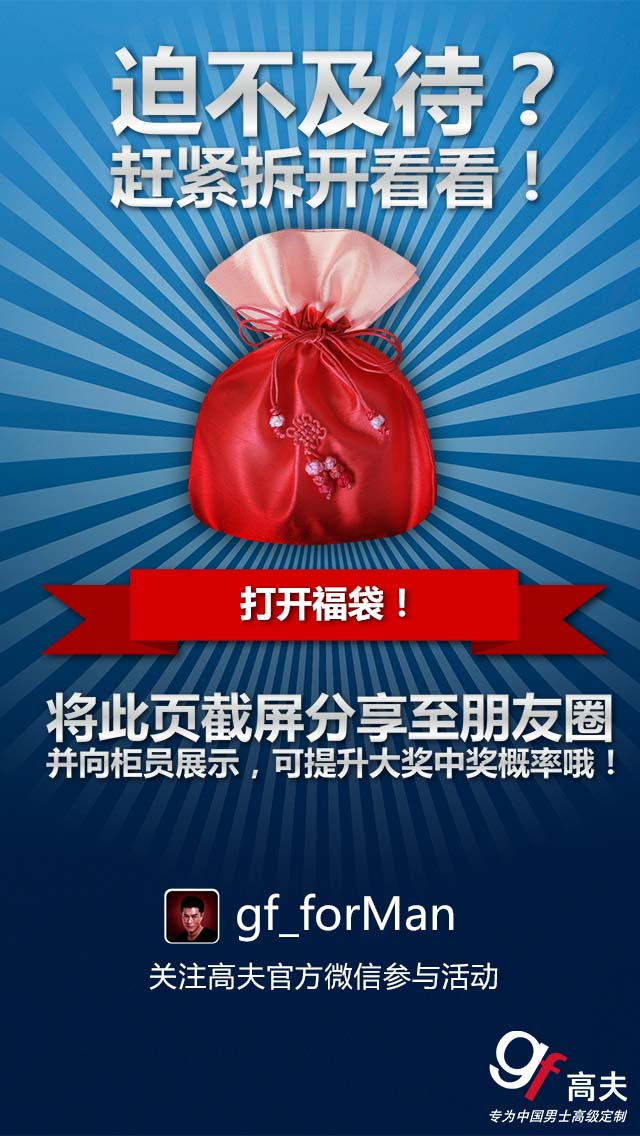
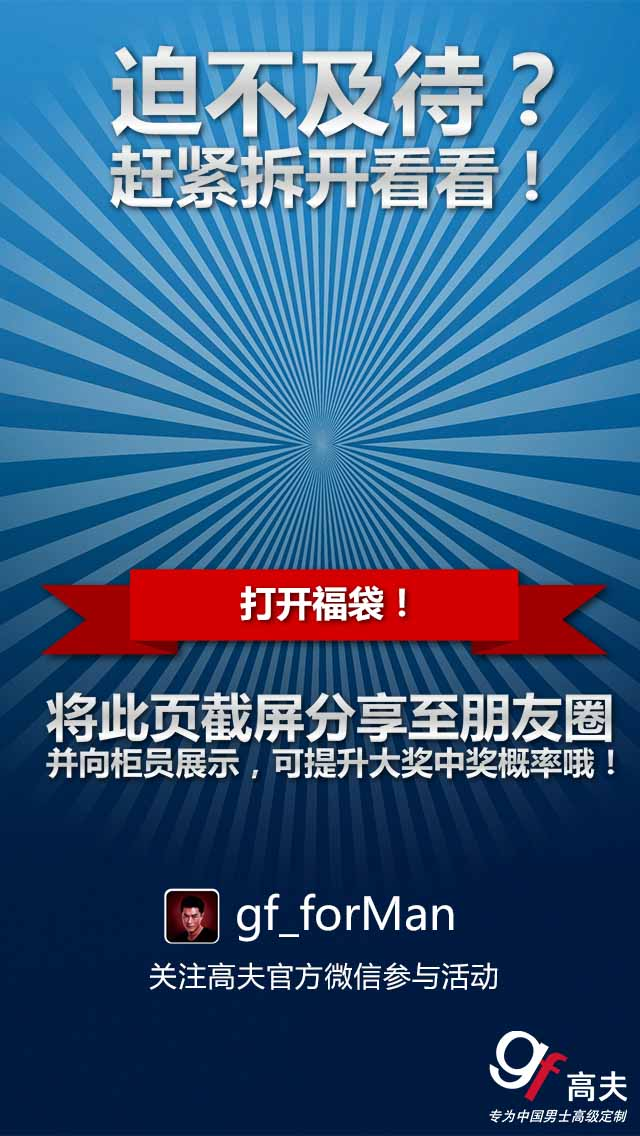
impl pages

Changed region(s): [[0.2812, 0.1849, 0.7188, 0.493]]

diff --git a/public/app.js b/public/app.js
@@ -262,28 +262,73 @@
 		if(this.pickPage == null) {
 			this.pickPage = buildBackground("pickPage", "page2");
 
-			var pickBtn = new Q.Button({id:"pickBtn", image: ns.R.getImage("button")});
-			pickBtn.setUpState({rect:[0,0,520,580]});
-			pickBtn.width= 520;
-			pickBtn.height = 580;
-			pickBtn.scaleX = this.pickPage.scaleX;
-			pickBtn.scaleY = this.pickPage.scaleY;
-			pickBtn.x = this.width * 0.09;
-			pickBtn.y = this.height * 0.32;
-			pickBtn.on(game.EVENTS.TAP, function(e) {
+			var pickBtnRed1 = new Q.Button({id:"pickBtnRed1", image: ns.R.getImage("pickBagRed1")});
+			pickBtnRed1.setUpState({rect:[0,0,255,305]});
+			pickBtnRed1.width= 255;
+			pickBtnRed1.height = 305;
+			pickBtnRed1.scaleX = this.pickPage.scaleX;
+			pickBtnRed1.scaleY = this.pickPage.scaleY;
+			pickBtnRed1.x = this.width * 0.11;
+			pickBtnRed1.y = this.height * 0.32;
+			pickBtnRed1.on(game.EVENTS.TAP, function(e) {
+				game.displayPage3('red');
+			});
+
+			this.pickBtnRed1 = pickBtnRed1;
+
+			var pickBtnBlue1 = new Q.Button({id:"pickBtnBlue1", image: ns.R.getImage("pickBagBlue1")});
+			pickBtnBlue1.setUpState({rect:[0,0,266,304]});
+			pickBtnBlue1.width= 266;
+			pickBtnBlue1.height = 304;
+			pickBtnBlue1.scaleX = this.pickPage.scaleX;
+			pickBtnBlue1.scaleY = this.pickPage.scaleY;
+			pickBtnBlue1.x = this.width * 0.52;
+			pickBtnBlue1.y = this.height * 0.32;
+			pickBtnBlue1.on(game.EVENTS.TAP, function(e) {
 				game.displayPage3();
 			});
 
-			this.pickBtn = pickBtn;
+			this.pickBtnBlue1 = pickBtnBlue1;
+
+			var pickBtnRed2 = new Q.Button({id:"pickBtnRed2", image: ns.R.getImage("pickBagRed2")});
+			pickBtnRed2.setUpState({rect:[0,0,266,305]});
+			pickBtnRed2.width= 266;
+			pickBtnRed2.height = 305;
+			pickBtnRed2.scaleX = this.pickPage.scaleX;
+			pickBtnRed2.scaleY = this.pickPage.scaleY;
+			pickBtnRed2.x = this.width * 0.52;
+			pickBtnRed2.y = this.height * 0.585;
+			pickBtnRed2.on(game.EVENTS.TAP, function(e) {
+				game.displayPage3('red');
+			});
+
+			this.pickBtnRed2 = pickBtnRed2;
+
+			var pickBtnBlue2 = new Q.Button({id:"pickBtnBlue2", image: ns.R.getImage("pickBagBlue2")});
+			pickBtnBlue2.setUpState({rect:[0,0,274,306]});
+			pickBtnBlue2.width= 274;
+			pickBtnBlue2.height = 306;
+			pickBtnBlue2.scaleX = this.pickPage.scaleX;
+			pickBtnBlue2.scaleY = this.pickPage.scaleY;
+			pickBtnBlue2.x = this.width * 0.09;
+			pickBtnBlue2.y = this.height * 0.585;
+			pickBtnBlue2.on(game.EVENTS.TAP, function(e) {
+				game.displayPage3();
+			});
+
+			this.pickBtnBlue2 = pickBtnBlue2;
 		}
 		
 		this.stage.addChild(
 					this.pickPage
-					, this.pickBtn);
+					, this.pickBtnRed1
+					, this.pickBtnRed2
+					, this.pickBtnBlue1
+					, this.pickBtnBlue2);
 		this.stage.step();
 	};
 
-	game.displayPage3 = function() {	
+	game.displayPage3 = function(bag) {	
 		if(this.openPage == null) {
 			this.openPage = buildBackground("openPage", "page3");
 
@@ -291,8 +336,8 @@
 			openBtn.setUpState({rect:[0,0,390,79]});
 			openBtn.width= 390;
 			openBtn.height = 79;
-			openBtn.scaleX = this.startPage.scaleX;
-			openBtn.scaleY = this.startPage.scaleY;
+			openBtn.scaleX = this.openPage.scaleX;
+			openBtn.scaleY = this.openPage.scaleY;
 			openBtn.x = this.width * 0.2;
 			openBtn.y = this.height * 0.499;
 			openBtn.on(game.EVENTS.TAP, function(e) {
@@ -300,10 +345,19 @@
 			});
 
 			this.openBtn = openBtn;
+
+			var pickedBag = new Q.Bitmap({"id": "pickedBag", "image": ns.R.getImage(bag === 'red'? 'pickedRed' : 'pickedBlue')});
+	        pickedBag.scaleX = this.openPage.scaleX;
+	        pickedBag.scaleY = this.openPage.scaleY;
+	        pickedBag.x = this.width * 0.25;
+	        pickedBag.y = this.height * 0.17;
+
+	        this.pickedBag = pickedBag;
 		}
 		
 		this.stage.addChild(
 					this.openPage
+					, this.pickedBag
 					, this.openBtn);
 		this.stage.step();
 	};
@@ -312,23 +366,56 @@
 		if(this.goldPrizePage == null) {
 			this.goldPrizePage = buildBackground("goldPrizePage", "page4");
 
-			var openBtn = new Q.Button({id:"openBtn", image: ns.R.getImage("button")});
-			openBtn.setUpState({rect:[0,0,390,79]});
-			openBtn.width= 390;
-			openBtn.height = 79;
-			openBtn.scaleX = this.startPage.scaleX;
-			openBtn.scaleY = this.startPage.scaleY;
-			openBtn.x = this.width * 0.2;
-			openBtn.y = this.height * 0.499;
-			openBtn.on(game.EVENTS.TAP, function(e) {
+			var reserveBtn = new Q.Button({id:"reserveBtn", image: ns.R.getImage("button")});
+			reserveBtn.setUpState({rect:[0,0,390,79]});
+			reserveBtn.width= 390;
+			reserveBtn.height = 79;
+			reserveBtn.scaleX = this.goldPrizePage.scaleX;
+			reserveBtn.scaleY = this.goldPrizePage.scaleY;
+			reserveBtn.x = this.width * 0.18;
+			reserveBtn.y = this.height * 0.568;
+			reserveBtn.on(game.EVENTS.TAP, function(e) {
+				game.displayPage7();
 			});
 
-			this.openBtn = openBtn;
+			this.reserveBtn = reserveBtn;
+
+			var bagCode = new Q.Text({id: "bagCode"});
+			bagCode.width = 245;
+			bagCode.height = 52;
+			bagCode.scaleX = this.goldPrizePage.scaleX;
+			bagCode.scaleY = this.goldPrizePage.scaleY;
+			bagCode.x = this.width * 0.366;
+			bagCode.y = this.height * 0.388;
+			bagCode.textAlign = "start"; 
+			bagCode.lineSpacing = 35; 
+			bagCode.color = "#fff";
+			bagCode.text = "TEST0123";
+			bagCode.font = "40px arial"
+
+			this.bagCode = bagCode;
+
+			var couponCode = new Q.Text({id: "couponCode"});
+			couponCode.width = 220;
+			couponCode.height = 52;
+			couponCode.scaleX = this.goldPrizePage.scaleX;
+			couponCode.scaleY = this.goldPrizePage.scaleY;
+			couponCode.x = this.width * 0.42;
+			couponCode.y = this.height * 0.448;
+			couponCode.textAlign = "start"; 
+			couponCode.lineSpacing = 35; 
+			couponCode.color = "#fff";
+			couponCode.text = "TEST0123";
+			couponCode.font = "40px arial"
+
+			this.couponCode = couponCode;
 		}
 		
 		this.stage.addChild(
 					this.goldPrizePage
-					, this.openBtn);
+					, this.bagCode
+					, this.couponCode
+					, this.reserveBtn);
 		this.stage.step();
 	};
 
@@ -340,19 +427,98 @@
 			openBtn2.setUpState({rect:[0,0,390,79]});
 			openBtn2.width= 390;
 			openBtn2.height = 79;
-			openBtn2.scaleX = this.startPage.scaleX;
-			openBtn2.scaleY = this.startPage.scaleY;
+			openBtn2.scaleX = this.silverPrizePage.scaleX;
+			openBtn2.scaleY = this.silverPrizePage.scaleY;
 			openBtn2.x = this.width * 0.2;
 			openBtn2.y = this.height * 0.499;
 			openBtn2.on(game.EVENTS.TAP, function(e) {
 			});
 
 			this.openBtn2 = openBtn2;
-		}
+
+			var silverCode = new Q.Text({id: "silverCode"});
+			silverCode.width = 220;
+			silverCode.height = 52;
+			silverCode.scaleX = this.silverPrizePage.scaleX;
+			silverCode.scaleY = this.silverPrizePage.scaleY;
+			silverCode.x = this.width * 0.427;
+			silverCode.y = this.height * 0.385;
+			silverCode.textAlign = "start"; 
+			silverCode.lineSpacing = 35; 
+			silverCode.color = "#fff";
+			silverCode.text = "TEST0123";
+			silverCode.font = "40px arial"
+
+			this.silverCode = silverCode;
+		};
 		
 		this.stage.addChild(
 					this.silverPrizePage
+					, this.silverCode
 					, this.openBtn2);
+		this.stage.step();
+	};
+
+	game.displayPage7 = function(bag) {	
+		if(this.cityPage == null) {
+			this.cityPage = buildBackground("cityPage", "page7");
+
+			var queryBtn = new Q.Button({id:"queryBtn", image: ns.R.getImage("button")});
+			queryBtn.setUpState({rect:[0,0,390,79]});
+			queryBtn.width= 390;
+			queryBtn.height = 79;
+			queryBtn.scaleX = this.cityPage.scaleX;
+			queryBtn.scaleY = this.cityPage.scaleY;
+			queryBtn.x = this.width * 0.2;
+			queryBtn.y = this.height * 0.39;
+			queryBtn.on(game.EVENTS.TAP, function(e) {
+
+			});
+
+			this.queryBtn = queryBtn;
+
+			var stateText = new Q.Text({id: "stateText"});
+			stateText.width = 220;
+			stateText.height = 52;
+			stateText.scaleX = this.cityPage.scaleX;
+			stateText.scaleY = this.cityPage.scaleY;
+			stateText.x = this.width * 0.075;
+			stateText.y = this.height * 0.315;
+			stateText.textAlign = "start"; 
+			stateText.lineSpacing = 35; 
+			stateText.color = "#fff";
+			stateText.text = "省份";
+			stateText.font = "35px 黑体";
+			stateText.on(game.EVENTS.TAP, function(e) {
+				console.log(1);
+			});
+
+			this.stateText = stateText;
+
+			var cityText = new Q.Text({id: "cityText"});
+			cityText.width = 220;
+			cityText.height = 52;
+			cityText.scaleX = this.cityPage.scaleX;
+			cityText.scaleY = this.cityPage.scaleY;
+			cityText.x = this.width * 0.535;
+			cityText.y = this.height * 0.315;
+			cityText.textAlign = "start"; 
+			cityText.lineSpacing = 35; 
+			cityText.color = "#fff";
+			cityText.text = "城市";
+			cityText.font = "35px 黑体";
+			cityText.on(game.EVENTS.TAP, function(e) {
+				console.log(1);
+			});
+
+			this.cityText = cityText;
+		}
+		
+		this.stage.addChild(
+					this.cityPage
+					, this.stateText
+					, this.cityText
+					, this.queryBtn);
 		this.stage.step();
 	};
 

diff --git a/public/app/R.js b/public/app/R.js
@@ -6,11 +6,18 @@
 	R.assets = [
 		{id: "button", width: 423, src: "assets/button.png"},
 		{id: "checkbox", width: 66, src: "assets/checkbox.png"},
+		{id: "pickBagRed1", width: 66, src: "assets/02_bag_1.png"},
+		{id: "pickBagBlue1", width: 66, src: "assets/02_bag_2.png"},
+		{id: "pickBagBlue2", width: 66, src: "assets/02_bag_3.png"},
+		{id: "pickBagRed2", width: 66, src: "assets/02_bag_4.png"},
+		{id: "pickedRed", width: 66, src: "assets/03_bag_red.png"},
+		{id: "pickedBlue", width: 66, src: "assets/03_bag_blue.png"},
 		{id: "page1", width: 640, src: "assets/1-01.jpg"},
-		{id: "page2", width: 640, src: "assets/2-01.jpg"},
+		{id: "page2", width: 640, src: "assets/2-01_bg.jpg"},
 		{id: "page3", width: 640, src: "assets/3-01.jpg"},
 		{id: "page4", width: 640, src: "assets/4-01.jpg"},
-		{id: "page5", width: 640, src: "assets/5-01.jpg"}
+		{id: "page5", width: 640, src: "assets/5-01.jpg"},
+		{id: "page7", width: 640, src: "assets/7-01.jpg"}
 	];
 
 	R.backgroundAssets = [

diff --git a/public/app/city.js b/public/app/city.js
@@ -1,0 +1,8 @@
+(function () {
+	var ns = Q.use("bag");
+
+	var city = ns.city = {};
+
+	
+
+})();
